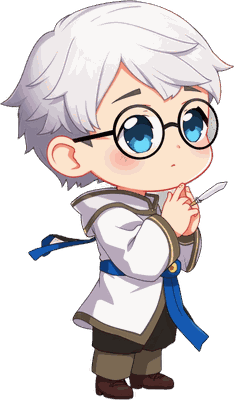
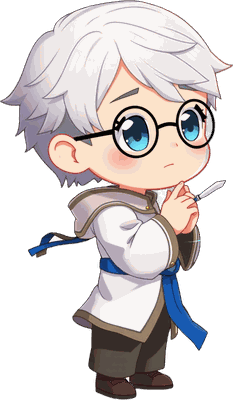
v0.66.0: 紅蓮の脚を短く、学士の頭を小さく(どちらも絵の方で直す)
報告: 「紅蓮だけ足が長すぎる」「学士の顔がかなり大きい」

倍率(表示の拡大縮小)は全身にかかるので、頭だけ・脚だけを直せない。
頭を揃えようとすると背丈が変わり、背丈を揃えると頭が揃わない ―
これを繰り返していたので、体つきそのものは絵の指定で直すことにした。

・紅蓮: 脚の短さを指定(頭39.8% → 52.8%)。頭と脚の釣り合いが他と揃った
・学士: 頭身を3.5に上げて頭を小さく(50.7% → 48.5%)。倍率で縮めると
  背が低くなるという前の指摘を繰り返さないため
・倍率は ±8% の範囲で微調整するだけに留めた

diff --git a/shared/characters.ts b/shared/characters.ts
@@ -38,20 +38,20 @@ export const CHAR_CHANGE_COST = 200;
 //   ±8%までに抑え、頭を揃えきるより背丈の自然さを優先する。
 //   帽子や髭のある子は測定値そのものが当てにならない(紫紺は測ると1.37倍
 //   必要と出るが、そのとおりにすると1人だけ見上げるほど大きくなる)。
-// 測定値(頭の幅 / 全身の高さ): 47.8% / 49.5% / 39.8% / 47.2% / 33.5% / 46.8%(平均 44.1%)
+// 測定値(頭の幅 / 全身の高さ): 43.5% / 48.5% / 52.8% / 47.2% / 31.5% / 46.5%(平均 45.0%)
 export const CHARACTERS: CharacterDef[] = [
   { id: 0, name: '黒金の魔女', note: '雷を操り、魔導書に真理を読む',
-    element: 'thunder', scale: 1.00 },
+    element: 'thunder', scale: 1.02 },
   { id: 1, name: '白銀の学士', note: '風を読み、記録と観測を重んじる',
-    element: 'wind', scale: 0.92 },
+    element: 'wind', scale: 0.94 },
   { id: 2, name: '紅蓮の戦導士', note: '炎を纏い、前へ出て杖を振るう',
-    element: 'fire', scale: 1.05 },
+    element: 'fire', scale: 0.92 },
   { id: 3, name: '翠緑の薬導士', note: '水を扱い、調合と薬に通じた癒し手',
-    element: 'water', scale: 0.94 },
+    element: 'water', scale: 0.96 },
   { id: 4, name: '紫紺の導師', note: '大地を鎮める、古き術の大魔導士',
     element: 'earth', scale: 1.00 },
   { id: 5, name: '蒼氷の術士', note: '氷を結び、静けさの中で術を編む',
-    element: 'ice', scale: 0.95 },
+    element: 'ice', scale: 0.98 },
 ];
 
 // 表示倍率(範囲外なら等倍)

diff --git a/shared/version.ts b/shared/version.ts
@@ -4,6 +4,6 @@
 // BUILD_DATE は npm run build のたびに tools/stamp-version.mjs が
 // 実際の時刻(日本時間)で書き換えるので、手で触らないこと。
 
-export const VERSION = '0.65.0';
-export const BUILD_DATE = '2026-08-07 06:47';
+export const VERSION = '0.66.0';
+export const BUILD_DATE = '2026-08-07 06:52';
 export const COPYRIGHT = 'Copyright © 2026 YuriPapa';
